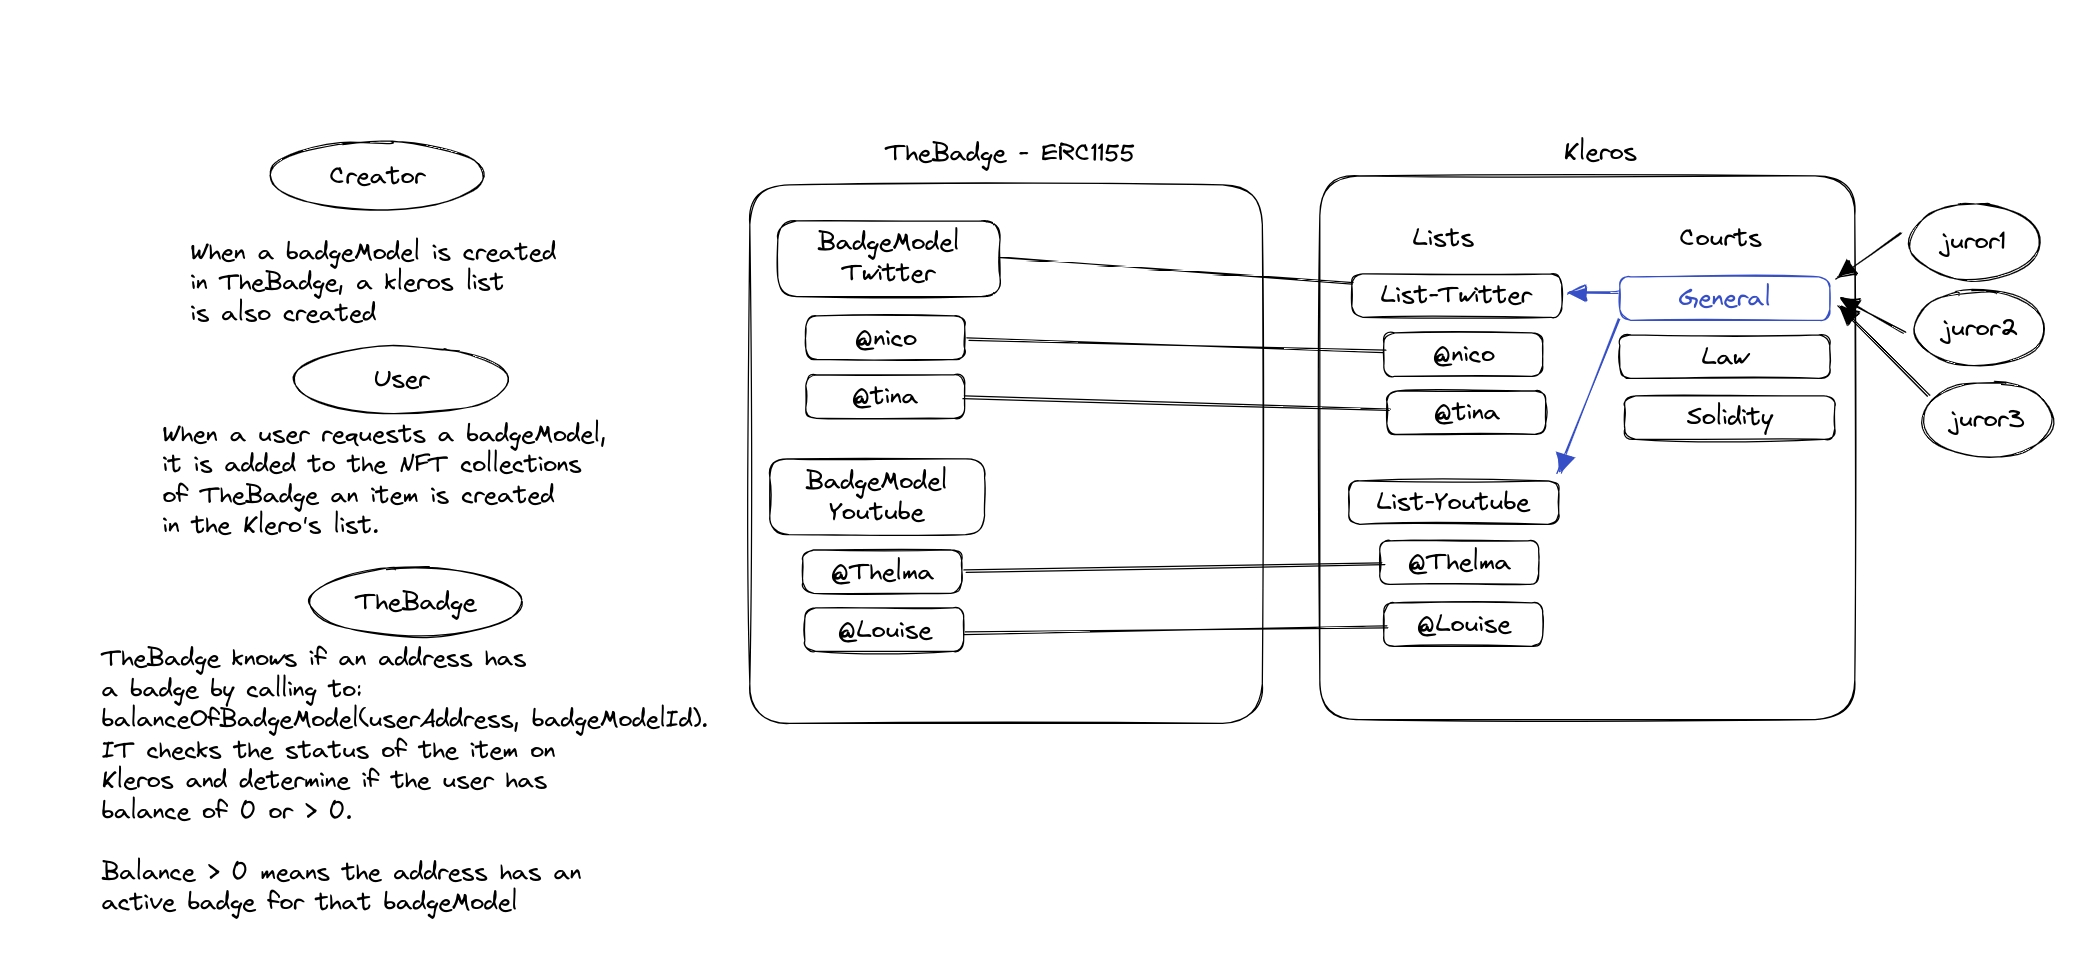
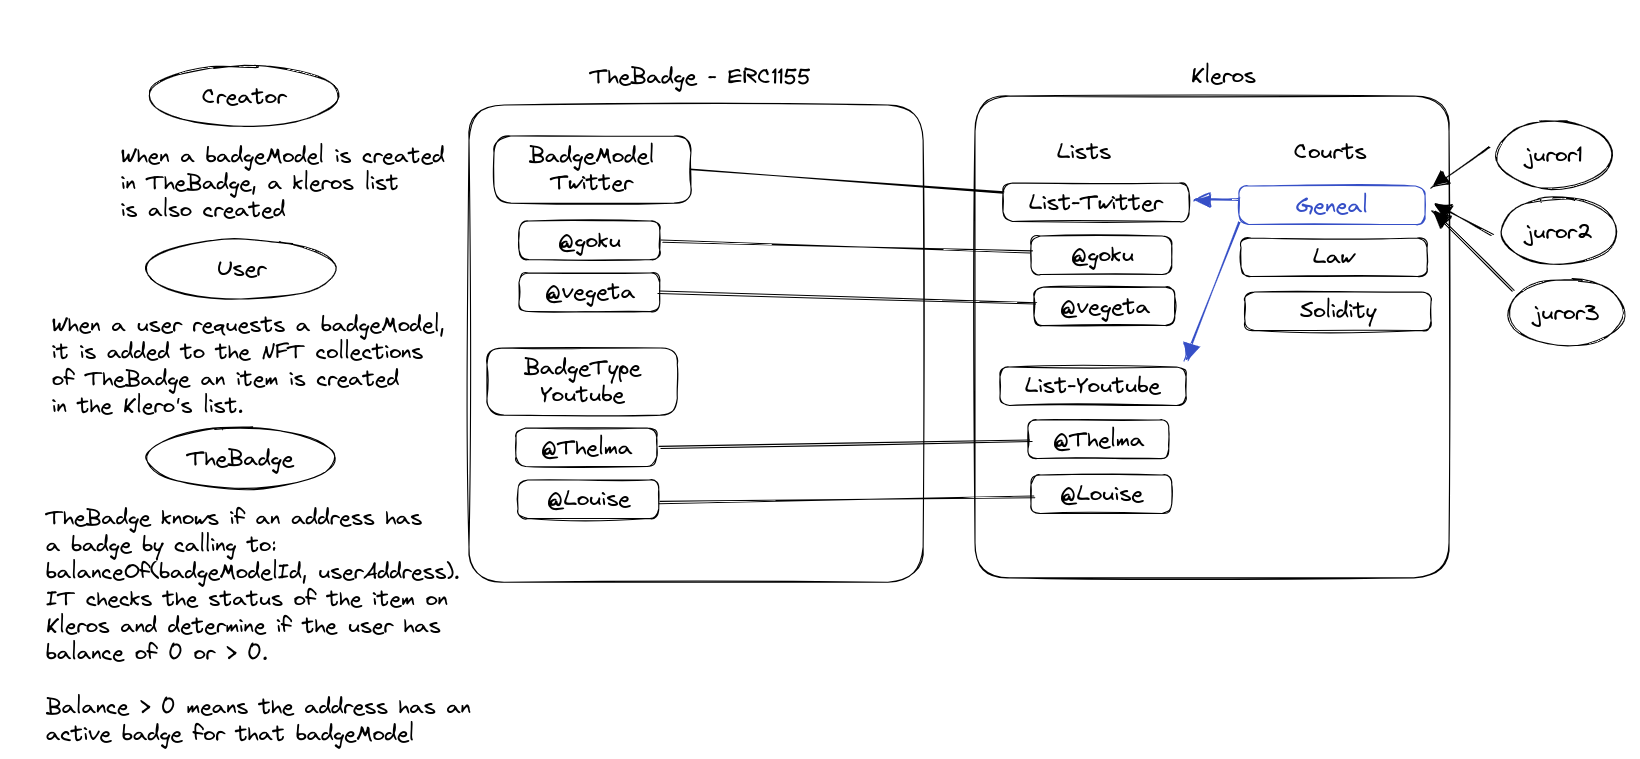
Updates architecture examples

diff --git a/ERC1155-721 Architecture.md b/ERC1155-721 Architecture.md
@@ -38,8 +38,8 @@ Event URI: We will use the badge ID instead of the BadgeModeld.
 
 To distinguish between different badges of the same BadgeModel, TheBadge will issue each Badge with a unique Badge ID. We will use IPFS to store the Badge metadata off-chain, but it is not possible to link a Badge ID with a specific user handle on IPFS at a smart-contract level. To solve this problem, we will add a new public mapping that links each BadgeModel ID with a Badge External ID and an address. This mapping will track if a particular address has control over a specific user handle, as shown below:
 
-“map(Twitter => @nico => 0x345)”;
-“map(Twitter => @tina => 0x345)”
+“map(Twitter => @goku => 0x345)”;
+“map(Twitter => @vegeta => 0x345)”
 
 ### Here is a diagram of our architecture:
 
